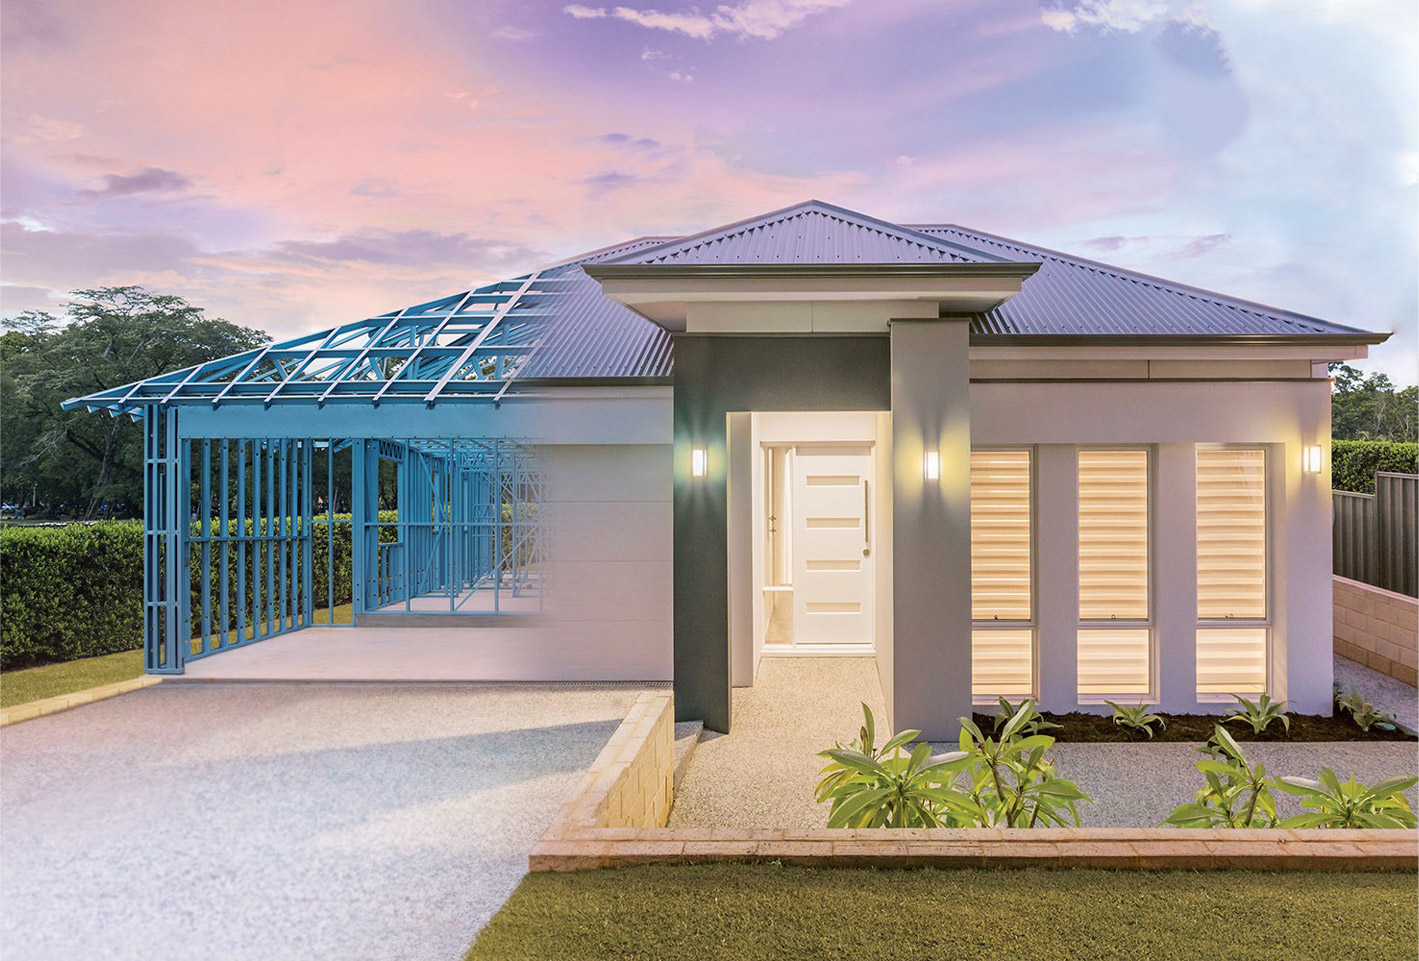
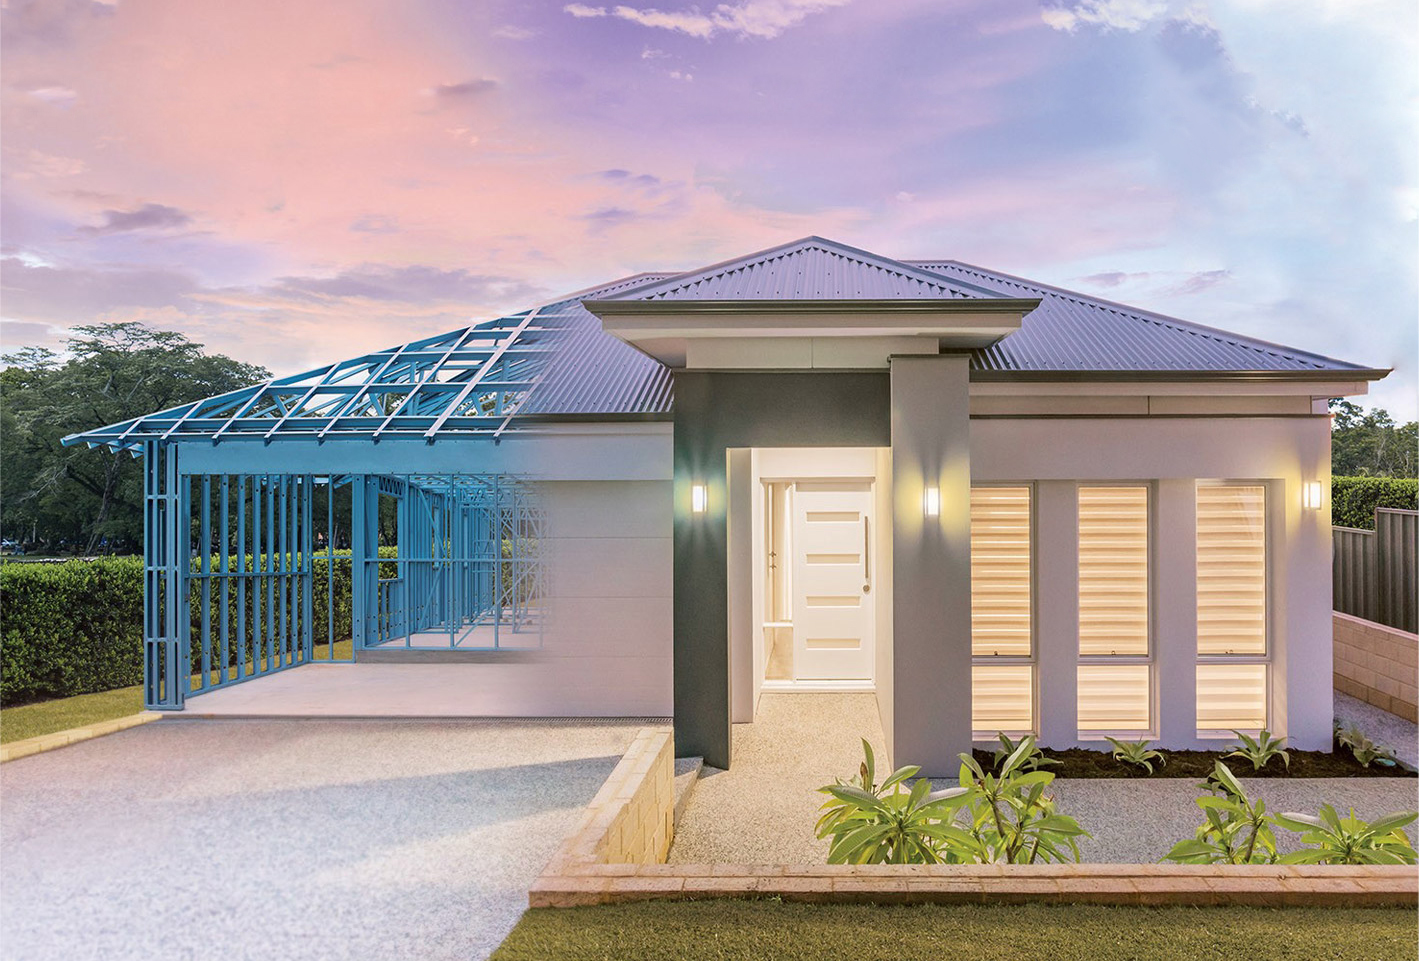
мелкие доработки от заказчика

diff --git a/index.html b/index.html
@@ -48,7 +48,8 @@
         </ul>
         <div class="page-header__contacts-field">
           <div class="page-header__contacts-phone-container">
-            <a href="tel:+78612056308" class="page-header__phone-link">+7 (861) 205-63-08</a>
+            <a href="tel:+78005551009" class="page-header__phone-link">8 (800) 555-1009</a>
+            <span class="page-header__phone-description">звонок по всей России бесплатный</span>
             <span class="page-header__work-time">с 9:00 до 19:00</span>
           </div>
           <div class="page-header__callback-btn-container">
@@ -302,7 +303,7 @@
         </ul>
       </div>
       <div class="montage__text-field">
-        <p>Используем высокотехнологичное оборудование. В среднем домкомплект изготавливает в 1,5 раза быстрее, чем на оборудовании предыдущего поколения. При этом сборка таких домокомлектов проще, а значит быстрее и дешевле.</p>
+        <p>Используем высокотехнологичное оборудование. В среднем домокомплект изготавливается в 1,5 раза быстрее, чем на оборудовании предыдущего поколения. При этом сборка таких домокомлектов проще, а значит быстрее и дешевле.</p>
         <p>Кроме того, домокоплект можно собрать без специальных знаний и инструментов. Детали изготавливаются с применением технических отверстий. Все части комплекта пронумерованы, имеется подробный чертеж и инструкции для сборки.</p>
       </div>
       <article class="montage-form">
@@ -357,7 +358,7 @@
         </li>
         <li class="schema__item">
           <span class="schema__item-title">Разработаем проект КМ</span>
-          <p class="schema__item-text">Мы являемся членами “СРО проектировщиков Рег. №899», дающее допуск к определенному виду работ, которые оказывают влияние на безопасность объектов капительного строительства</p>
+          <p class="schema__item-text">Мы являемся членами “СРО проектировщиков Рег. №899», дающее допуск к определенному виду работ, которые оказывают влияние на безопасность объектов капитального строительства</p>
         </li>
         <li class="schema__item">
           <span class="schema__item-title">Доставка</span>
@@ -496,7 +497,7 @@
           <button class="page-footer__callback-btn  callback-btn">Обратный звонок</button>
         </div>
         <div class="page-footer__contacts-phone-container">
-          <a href="tel:+78612056308" class="page-footer__phone-link">+7 (861) 205-63-08</a>
+          <a href="tel:+78005551009" class="page-footer__phone-link">8 800 555-1009</a>
         </div>
       </div>
     </div>
@@ -506,10 +507,12 @@
       <span class="page-footer__title">Наши контакты</span>
       <div class="page-footer__contacts">
         <div class="page-footer__contacts-inner">
-          <a class="page-footer__contact-phone-link" href="tel:+78612056308">+7 (861) 205-63-08</a>
+          <span class="page-footer__phone-free-description">звонок по всей России бесплатный</span>
+          <a class="page-footer__contact-phone-link  page-footer__contact-phone-link--first" href="tel:+78005551009">8 800 555-1009</a>
           <a href="whatsapp://send?text=Хочу%20оставить%20заявку%20на%20лстк!&phone=+79298243390&abid=+79298243390" class="page-footer__social-link  page-footer__social-link--whatsapp  page-footer__social-link--mobile">Whatsapp</a>
           <span class="page-footer__social-link  page-footer__social-link--whatsapp  page-footer__social-link--desktop">+7 (929) 824-33-90</span>
           <address class="page-footer__contact-address">г. Краснодар, улица Селезнева 4/4 помещение №5</address>
+          <a class="page-footer__contact-phone-link  page-footer__contact-phone-link--second" href="tel:+78612056308">+7 (861) 205-63-08</a>
           <div class="page-footer__work">
             <span class="page-footer__work-title">Режим работы:</span>
             <span class="page-footer__work-time">пн.-пт. с 9:00 до 21:00</span>
@@ -533,7 +536,7 @@
   <span class="popup-callback__title">Оставьте заявку</span>
   <span class="popup-callback__subtitle">Мы свяжемся с Вами в ближайшее время</span>
   <form action="mail.php" method="post" id="popup-callback-form-id" class="popup-callback__form">
-    <input type="hidden" name="form-title" value="Попап заявка">
+    <input type="hidden" name="form-title" value="Типовые решения">
     <input type="text" name="d-name" id="popup-callback-name-id" class="popup-callback__input  popup-callback__input--text" placeholder="Имя">
     <input type="tel" name="d-tel" id="popup-callback-tel-id" class="popup-callback__input  popup-callback__tel" placeholder="Телефон" required>
     <div class="popup-callback__submit-container">

diff --git a/sass/blocks/page-header.scss b/sass/blocks/page-header.scss
@@ -52,11 +52,12 @@
     margin-right: 20px;
   }
   @media #{$min-tablet-width} {
-    width: 60px;
+    width: 80px;
     margin-right: 40px;
+    padding-left: 20px;
   }
   @media #{$min-desktop-width} {
-    width: 85px;
+    width: 105px;
     margin-right: 58px;
   }
 }
@@ -92,8 +93,8 @@
 }
 .page-header__contacts-phone-container {
   display: flex;
+  flex-direction: column;
   @media #{$max-mobile-width} {
-    flex-direction: column;
     order: 2;
     font-size: 10px;
   }
@@ -111,6 +112,11 @@
   color: $color--main;
   @media #{$max-mobile-width} {
     padding-bottom: 3px;
+  }
+}
+.page-header__phone-description {
+  @media #{$min-tablet-width} {
+    font-size: 10px;
   }
 }
 .page-header__work-time {

diff --git a/sass/blocks/page-footer.scss b/sass/blocks/page-footer.scss
@@ -218,6 +218,21 @@
     }
   }
 }
+.page-footer__phone-free-description {
+  display: block;
+  font-size: 14px;
+}
+.page-footer__contact-phone-link {
+  display: inline-block;
+}
+.page-footer__contact-phone-link--first {
+  @media #{$min-tablet-width} {
+    margin-bottom: 20px;
+  }
+}
+.page-footer__contact-phone-link--second {
+  margin-top: 10px;
+}
 .page-footer__contact-mail-link {
   position: relative;
   &::before {
@@ -326,10 +341,10 @@
   @media #{$min-tablet-width} {
     position: relative;
     z-index: 2;
-    height: 400px;
+    height: 550px;
   }
   @media #{$min-desktop-width} {
-    height: 560px;
+    height: 650px;
   }
 }
 #map {

diff --git a/sass/blocks/first-screen.scss b/sass/blocks/first-screen.scss
@@ -12,6 +12,22 @@
     background-image: url("../img/intro-bg--desktop.jpg");
     display: flex;
     flex-direction: column;
+    background-size: auto auto;
+  }
+  @media #{$min-desktop-width} {
+    background-size: 137% auto;
+  }
+  @media (min-width: 1400px) {
+    background-size: 127% auto;
+  }
+  @media (min-width: 1500px) {
+    background-size: 117% auto;
+  }
+  @media (min-width: 1600px) {
+    background-size: 107% auto;
+  }
+  @media (min-width: 1700px) {
+    background-size: cover;
   }
   @media screen and (min-width: 1200px) and (min-height: 900px){
     height: 100vh;

diff --git a/sass/blocks/pasc.scss b/sass/blocks/pasc.scss
@@ -40,7 +40,7 @@
 .pasc--1 {
   @media #{$min-desktop-width} {
     left: 25%;
-    top: 135%;
+    top: 185%;
   }
   .pasc__content {
     width: 190px;
@@ -64,7 +64,7 @@
 .pasc--2 {
   @media #{$min-desktop-width} {
     left: 25%;
-    top: 30%;
+    top: 40%;
   }
   .pasc__content {
     width: 275px;

diff --git a/mail-file.php b/mail-file.php
@@ -101,6 +101,7 @@ if (isset($_FILES[$input_name])) {
 				if (move_uploaded_file($file['tmp_name'], $path . $name)) {
 					// Далее можно сохранить название файла в БД и т.п.
 					$success = 'Файл «' . $name . '» успешно загружен.';
+					$file_url = 'https://lstkpartner.ru/uploads/'.$name;
 				} else {
 					$error = 'Не удалось загрузить файл.';
 				}
@@ -125,16 +126,16 @@ require 'phpmailer/src/SMTP.php';
 
 $file_ext = pathinfo($name, PATHINFO_EXTENSION);
 
-$firstname = $_POST['d-name'];
-$telephone = $_POST['d-tel'];
-$firstname = htmlspecialchars($firstname);
-$telephone = htmlspecialchars($telephone);
-$firstname = urldecode($firstname);
-$telephone = urldecode($telephone);
-$firstname = trim($firstname);
-$telephone = trim($telephone);
+$name = $_POST['d-name'];
+$phone = $_POST['d-tel'];
+$name = htmlspecialchars($name);
+$phone = htmlspecialchars($phone);
+$name = urldecode($name);
+$phone = urldecode($phone);
+$name = trim($name);
+$phone = trim($phone);
 
-$mess = "Заявка с ЛСТК (со своим проектом): \n Имя: ".$firstname."\n Телефон: ".$telephone;
+$mess = "Заявка с ЛСТК (со своим проектом): \n Имя: ".$name."\n Телефон: ".$phone;
 
 $mail = new PHPMailer();
 $mail->setFrom('crm@lstkpartner.ru', 'LSTK Order');
@@ -143,6 +144,10 @@ $mail->Subject = 'Заявка ЛСТК с проектом';
 $mail->Body = $mess;
 $mail->addAttachment($path . $name);
 $mail->send();
+
+
+
+$_POST['form-title'] = 'Готовый проект';	
 
 if (isset($phone) && !empty($phone)) {
         require 'vendor/autoload.php';
